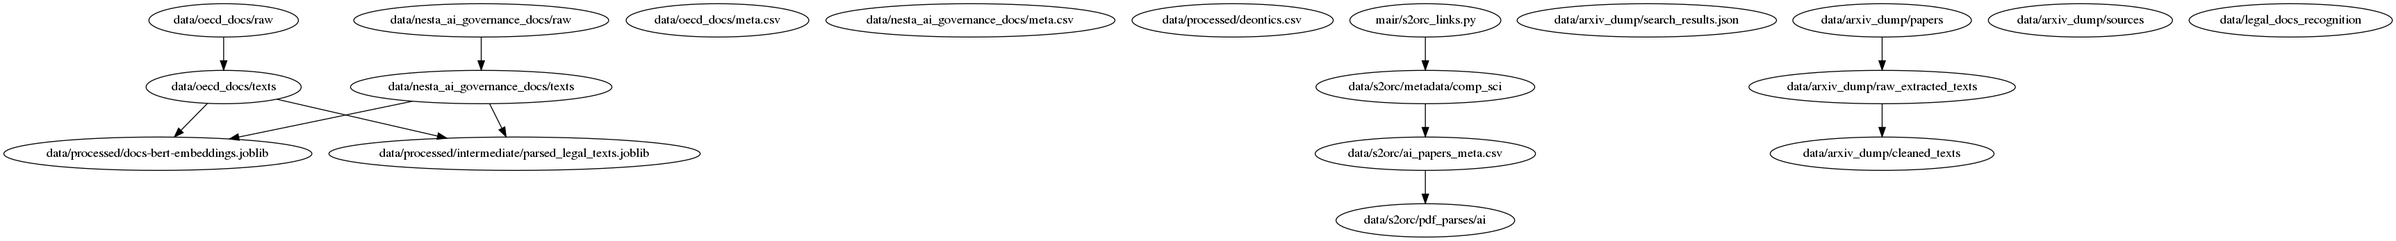
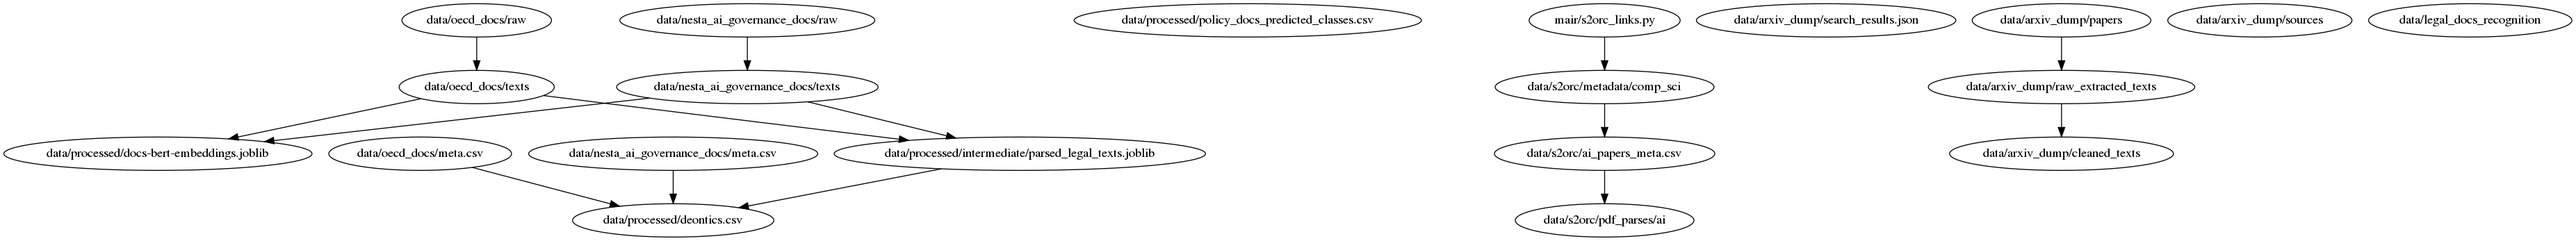
* deontics analysis added to pipeline * processing of arxiv added to pipeline

diff --git a/mair/deontics.py b/mair/deontics.py
@@ -1,0 +1,161 @@
+from dataclasses import dataclass
+
+import pandas as pd
+import spacy.tokens
+
+# importing to set spacy's extensions
+import mair.coreference_resulution  # noqa:F401
+
+
+@dataclass
+class EmptyToken:
+    lemma_ = ""
+    children = []
+
+    def __len__(self):
+        return 0
+
+
+nlp = spacy.load("en_core_web_sm")
+
+
+EMPTY_TOKEN = EmptyToken()
+
+COULD = "can"
+SHOULD = "shall"
+MUST = "must"
+MODAL_VERBS_MAPPING = {
+    "can": COULD,
+    "could": COULD,
+    "may": COULD,
+    "might": COULD,
+    "shall": SHOULD,
+    "should": SHOULD,
+    "must": MUST,
+}
+
+
+def _get_all_conjucted_tokens(token):
+    tokens = []
+    for child in token.children:
+        if child.dep_ == "conj":
+            tokens.append(child)
+    return tokens
+
+
+def _find_subjects(verb: spacy.tokens.Token, modal: spacy.tokens.Token):
+    subject = [child for child in verb.children if child.dep_ == "nsubj"]
+    passive_subject = [child for child in verb.children if child.dep_ == "nsubjpass"]
+    csubj = [
+        c
+        for child in verb.children
+        if child.dep_ == "csubj"
+        for c in child.children
+        if c.dep_ == "nsubj"
+    ]
+
+    if len(subject) == 0 and len(passive_subject) == 0:
+        # if no subject found, check if there is conjunction on verb, and add subjects of conjucted verb
+        if verb.dep_ == "conj":
+            head = verb.head
+            subject = [child for child in head.children if child.dep_ == "nsubj"]
+            passive_subject = [
+                child for child in head.children if child.dep_ == "nsubjpass"
+            ]
+    if len(subject) == 0 and len(passive_subject) == 0:
+        subject = [child for child in modal.children if child.dep_ == "nsubj"]
+        passive_subject = [
+            child for child in modal.children if child.dep_ == "nsubjpass"
+        ]
+
+    if len(subject) != 0:
+        subject += _get_all_conjucted_tokens(subject[0])
+        # check conjucted subjects, and add them to subjects
+
+    return subject, passive_subject, csubj
+
+
+def _get_coref_text(tokens):
+    if len(tokens) == 0:
+        return ""
+    token = tokens[0]
+    corefs = token._.corefs
+    if len(corefs) == 0 or token.pos_ != "PRON":
+        return ""
+    return corefs[0]
+
+
+def _get_subjects_from_noun_phrase(text):
+    """Get all subjects from noun phrase"""
+    if text == "":
+        return []
+    doc = nlp(text)
+    root = None
+    for t in doc:
+        if t.dep_ == "ROOT":
+            root = t
+            break
+    if not root:
+        return []
+    subjects = [root] + _get_all_conjucted_tokens(root)
+
+    return subjects
+
+
+def get_deontic_sentences_table(docs: pd.Series) -> pd.DataFrame:
+    """Produce table with analysed sentences with deontics from series of parsed texts
+    Index of series is path of raw text"""
+    results = []
+    for id, doc in docs.iteritems():
+        for token in doc:
+            modal = token.lemma_.lower()
+            if modal_category := MODAL_VERBS_MAPPING.get(modal):
+                verb = next(token.ancestors, EMPTY_TOKEN)
+                if len(verb) != 0:
+                    subject, passive_subject, clausal_subject = _find_subjects(
+                        verb, token
+                    )
+                    negated = any([c.dep_ == "neg" for c in verb.children])
+                else:
+                    subject = []
+                    passive_subject = []
+                    clausal_subject = []
+                    negated = False
+                is_question = token.sent[-1].norm_ == "?" or token.sent[-2].norm_ == "?"
+                subject_coref_text = _get_coref_text(subject)
+                subject_coref = _get_subjects_from_noun_phrase(subject_coref_text)
+                result = {
+                    "modal": modal_category,
+                    "sent": token.sent,  # .text.replace('\n', ' '),
+                    "raw_text_path": id,
+                    "verb": verb,
+                    "subject": subject,
+                    "passiveSubject": passive_subject,
+                    "clausalSubject": clausal_subject,
+                    "token": token,
+                    "isQuestion": is_question,
+                    "negated": negated,
+                    "subjectCorefText": subject_coref_text,
+                    "subjectCoref": subject_coref,
+                }
+                results.append(result)
+    result_df = pd.DataFrame(results)
+
+    return result_df
+
+
+def final_subjects(subjects, coref_subjects):
+    """Merges coreference subjects with normal subjects.
+    If normal subject is pronoun, replace it with coreferenced"""
+    results = []
+    append_coref = False
+    for s in subjects:
+        if s.pos_ == "PRON":
+            append_coref = True
+        else:
+            results.append(s.lemma_.lower())
+
+    if append_coref:
+        for s in coref_subjects:
+            results.append(s.lemma_.lower())
+    return results

diff --git a/mair/data_loading.py b/mair/data_loading.py
@@ -3,7 +3,11 @@ import os
 from glob import glob
 from typing import Dict, List
 
+import joblib
 import pandas as pd
+
+# importing to set spacy's extensions
+import mair.coreference_resulution  # noqa: F401
 
 ARXIV_DUMP_PATH_CLEANED_TEXT_PATH = "data/arxiv_dump/cleaned_texts"
 ARXIV_DUMP_PATH_RAW_TEXT_PATH = "data/arxiv_dump/raw_extracted_texts"
@@ -13,20 +17,28 @@ OECD_TEXTS_PATH = "data/oecd_docs/texts"
 NESTA_TEXTS_PATH = "data/nesta_ai_governance_docs/texts"
 
 
-def _load_text(path, id):
-    with open(os.path.join(path, id + ".txt"), "r") as f:
+def _load_text(path):
+    with open(os.path.join(path), "r") as f:
         text = f.read()
     return text
 
 
-def load_arxiv_cleaned_text(id: str) -> str:
+def _load_text_by_id(path, id):
+    return _load_text(os.path.join(path, id + ".txt"))
+
+
+def load_arxiv_raw_text_by_id(id: str) -> str:
     """Load cleaned text from given arxiv id"""
-    return _load_text(ARXIV_DUMP_PATH_CLEANED_TEXT_PATH, id)
+    return _load_text_by_id(ARXIV_DUMP_PATH_RAW_TEXT_PATH, id)
 
 
-def load_arxiv_raw_text(id: str) -> str:
-    """Loads raw text from given arxiv id"""
-    return _load_text(ARXIV_DUMP_PATH_RAW_TEXT_PATH, id)
+def load_arxiv_cleaned_texts() -> dict:
+    input_files_pattern = os.path.join(ARXIV_DUMP_PATH_CLEANED_TEXT_PATH, "*.txt")
+    text_input_file_paths = glob(input_files_pattern)
+    d = dict()
+    for path in text_input_file_paths:
+        d[path] = _load_text(path)
+    return d
 
 
 def load_golden_dataset() -> List[Dict[str, str]]:
@@ -36,7 +48,7 @@ def load_golden_dataset() -> List[Dict[str, str]]:
 
     for id in data:
         try:
-            text = load_arxiv_raw_text(data[id]["versioned_id"])
+            text = load_arxiv_raw_text_by_id(data[id]["versioned_id"])
             data[id]["text"] = text
             data[id]["affiliations"] = data[id]["affiliations"]["names"]
         except FileNotFoundError as e:
@@ -44,24 +56,35 @@ def load_golden_dataset() -> List[Dict[str, str]]:
     return [d for d in data.values() if d.get("text")]
 
 
-def load_legal_documents():
+def load_legal_documents() -> dict:
     """Load text extracted from nesta and oecd"""
     a = glob(os.path.join(OECD_TEXTS_PATH, "*")) + glob(
         os.path.join(NESTA_TEXTS_PATH, "*")
     )
     d = dict()
     for p in a:
-        with open(p, "r") as f:
-            d[p] = f.read()
+        d[p] = _load_text(p)
     return d
 
 
 def load_legal_documents_metadata() -> pd.DataFrame:
-    meta_nesta = pd.read_csv("data/nesta_ai_governance_docs/meta.csv")
-    meta_nesta["id"] = "nesta|" + meta_nesta["nestaId"]
+    nesta_path = "data/nesta_ai_governance_docs/meta.csv"
+    oecd_path = "data/oecd_docs/meta.csv"
 
-    oecd_meta = pd.read_csv("data/oecd_docs/meta.csv")
+    meta_nesta = pd.read_csv(nesta_path)
+    meta_nesta["id"] = "nesta|" + meta_nesta["nestaId"]
+    oecd_meta = pd.read_csv(oecd_path)
     oecd_meta["id"] = "oecd|" + oecd_meta["oecdId"].astype("str")
     oecd_meta["year"] = oecd_meta["startDate"]
     df_meta = pd.concat([meta_nesta, oecd_meta])
     return df_meta
+
+
+def load_parsed_legal_documents() -> pd.Series:
+    r = joblib.load("data/processed/intermediate/parsed_legal_texts.joblib")
+    df = pd.Series(r, name="doc")
+    df = df.reset_index()
+    df = df.set_index("index")
+    docs = df["doc"]
+
+    return docs

diff --git a/scripts/analyse_deontics_sentences.py b/scripts/analyse_deontics_sentences.py
@@ -1,0 +1,34 @@
+import mair.deontics
+import mair.doc_ids
+import pandas as pd
+from mair.data_loading import load_legal_documents_metadata, load_parsed_legal_documents
+
+# INPUTS:   "data/nesta_ai_governance_docs/meta.csv"
+#           "data/oecd_docs/meta.csv"
+#           "data/processed/intermediate/parsed_legal_texts.joblib"
+
+OUT = "data/processed/deontics.csv"
+if __name__ == "__main__":
+    parsed_documents = load_legal_documents_metadata()
+    df_meta = load_parsed_legal_documents()
+
+    result_df = mair.deontics.get_deontic_sentences_table(parsed_documents)
+
+    final_df = pd.DataFrame()
+    final_df["id"] = result_df["raw_text_path"].apply(mair.doc_ids.legal_doc_path_to_id)
+    final_df["verb"] = result_df["verb"].apply(lambda t: t.lemma_.lower())
+    final_df["subject"] = result_df.apply(
+        lambda row: mair.deontics.final_subjects(row["subject"], row["subjectCoref"]),
+        axis=1,
+    )
+    final_df["sent"] = result_df["sent"].apply(
+        lambda sent: sent.text.replace("\n", " ")
+    )
+    final_df["modal"] = result_df["modal"]
+    final_df["isQuestion"] = result_df["isQuestion"]
+    final_df["negated"] = result_df["negated"]
+
+    final_df = final_df.merge(df_meta, on="id")
+    final_df = final_df.explode("subject")  # convert lists to multiple rows}
+
+    final_df.to_csv(OUT, index=False)

diff --git a/scripts/process_arxiv_spacy.py b/scripts/process_arxiv_spacy.py
@@ -1,0 +1,16 @@
+"""Process raw papers texts through spacy nlp engine, extracting trees and coreferences resolutions. Results are saved to OUT"""
+import joblib
+from mair import coreference_resulution
+from mair.data_loading import load_arxiv_cleaned_texts
+from mair.read_write_utilities import ensure_dirs_exist
+from tqdm import tqdm
+
+OUT = "data/processed/intermediate/parsed_arxiv_papers.joblib"
+ensure_dirs_exist(OUT)
+
+
+texts = load_arxiv_cleaned_texts()
+results = {
+    path: coreference_resulution.parse(text) for path, text in tqdm(texts.items())
+}
+joblib.dump(results, OUT)
